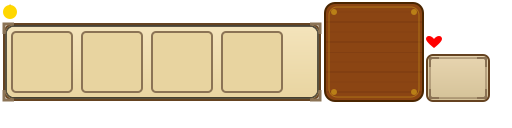
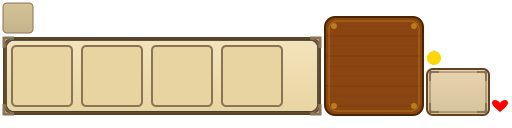
Update UI atlas and BuildToolbar button styling with background and layout improvements

diff --git a/core/src/main/java/code123/games/crystal/ui/BuildToolbar.java b/core/src/main/java/code123/games/crystal/ui/BuildToolbar.java
@@ -45,7 +45,6 @@ public class BuildToolbar {
     }
 
     private void createToolbar() {
-
         // 从纹理图集中获取9patch区域
         TextureAtlas atlas = AssetManager.getInstance().getAtlas("ui");
         TextureAtlas.AtlasRegion region = atlas.findRegion("toolbar_9patch");
@@ -77,14 +76,25 @@ public class BuildToolbar {
         float buttonSize = 32;  // 按钮尺寸
         float padding = 16;    // 按钮间距
         
+        // 获取按钮背景
+        TextureAtlas.AtlasRegion buttonRegion = atlas.findRegion("button_background");  // 暂时复用这个背景
+        NinePatch buttonPatch = new NinePatch(buttonRegion, 4, 4, 4, 4);
+        NinePatchDrawable buttonBackground = new NinePatchDrawable(buttonPatch);
+        
         // 箭塔按钮
         ImageButton arrowButton = new ImageButton(new TextureRegionDrawable(arrowTowerIcon));
         // 箭塔按钮
-        toolbarTable.add(arrowButton).size(buttonSize).pad(0).padRight(padding).center();
+        Table arrowTable = new Table();
+        arrowTable.setBackground(buttonBackground);
+        arrowTable.add(arrowButton).size(buttonSize).pad(0).center();
+        toolbarTable.add(arrowTable).padRight(4);
         
         // 魔法塔按钮
         ImageButton magicButton = new ImageButton(new TextureRegionDrawable(magicTowerIcon));
-        toolbarTable.add(magicButton).size(buttonSize).pad(0).center();
+        Table magicTable = new Table();
+        magicTable.setBackground(buttonBackground);
+        magicTable.add(magicButton).size(buttonSize).pad(0).center();
+        toolbarTable.add(magicTable);
         
         // 设置位置并调整大小
         mainTable.pack();
